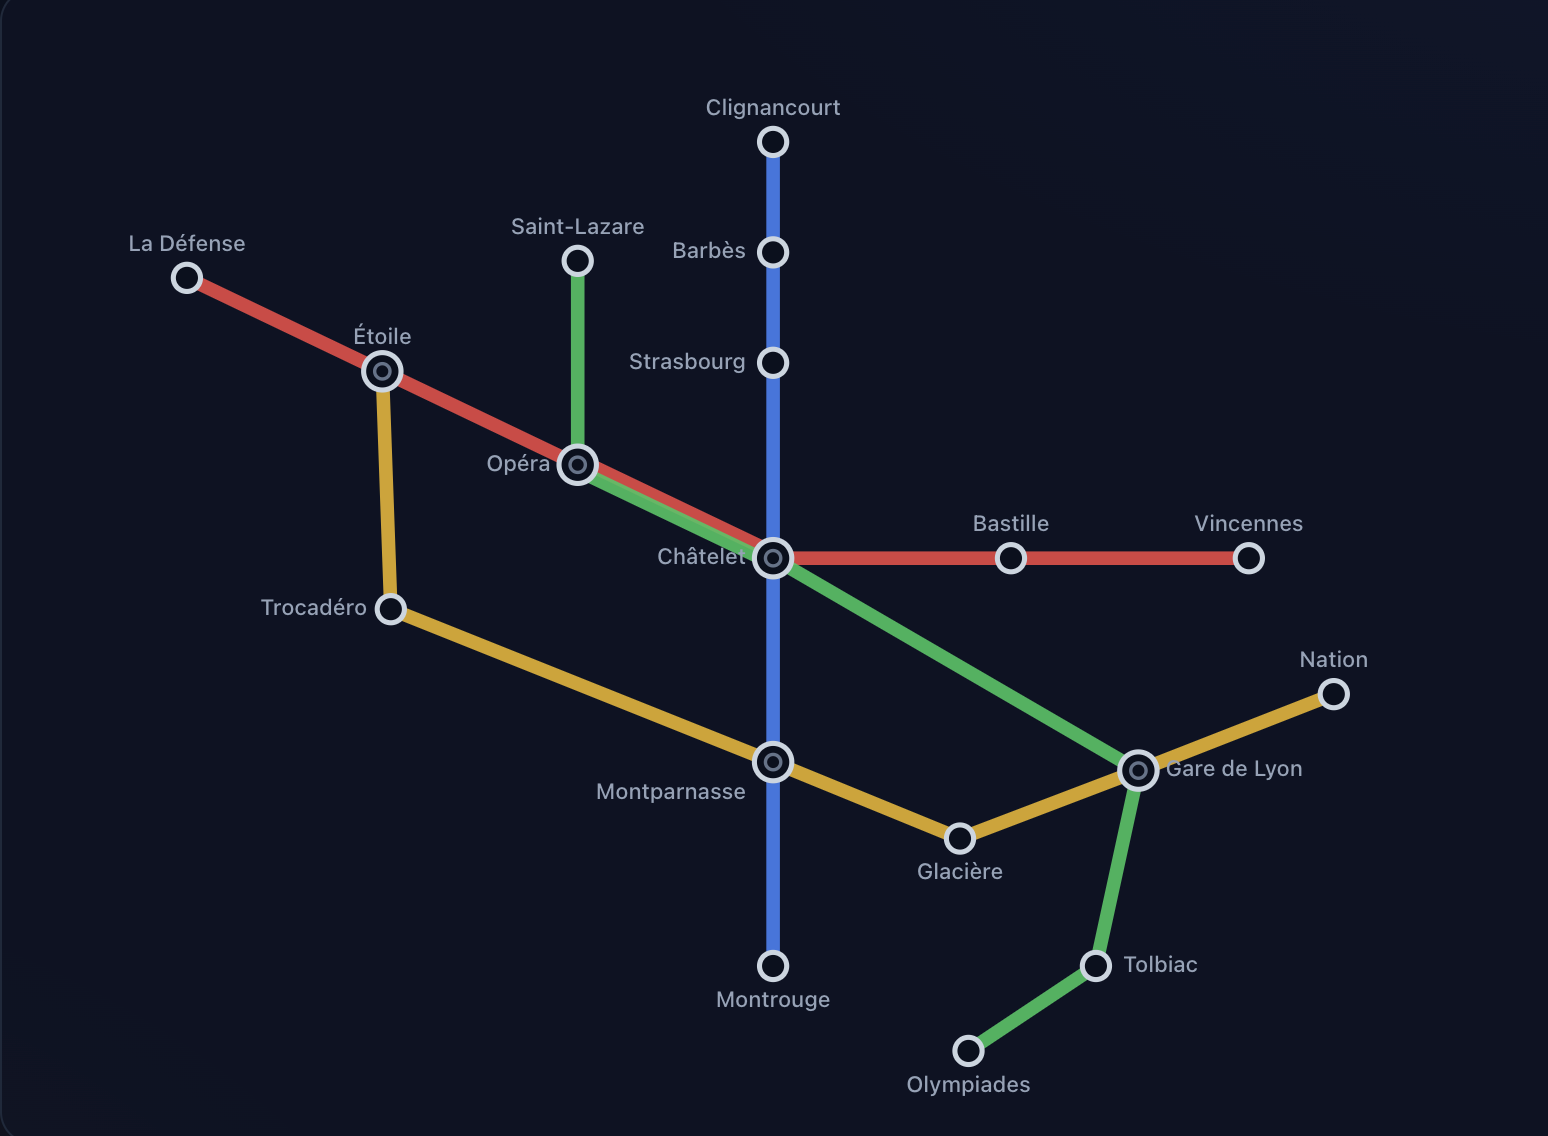
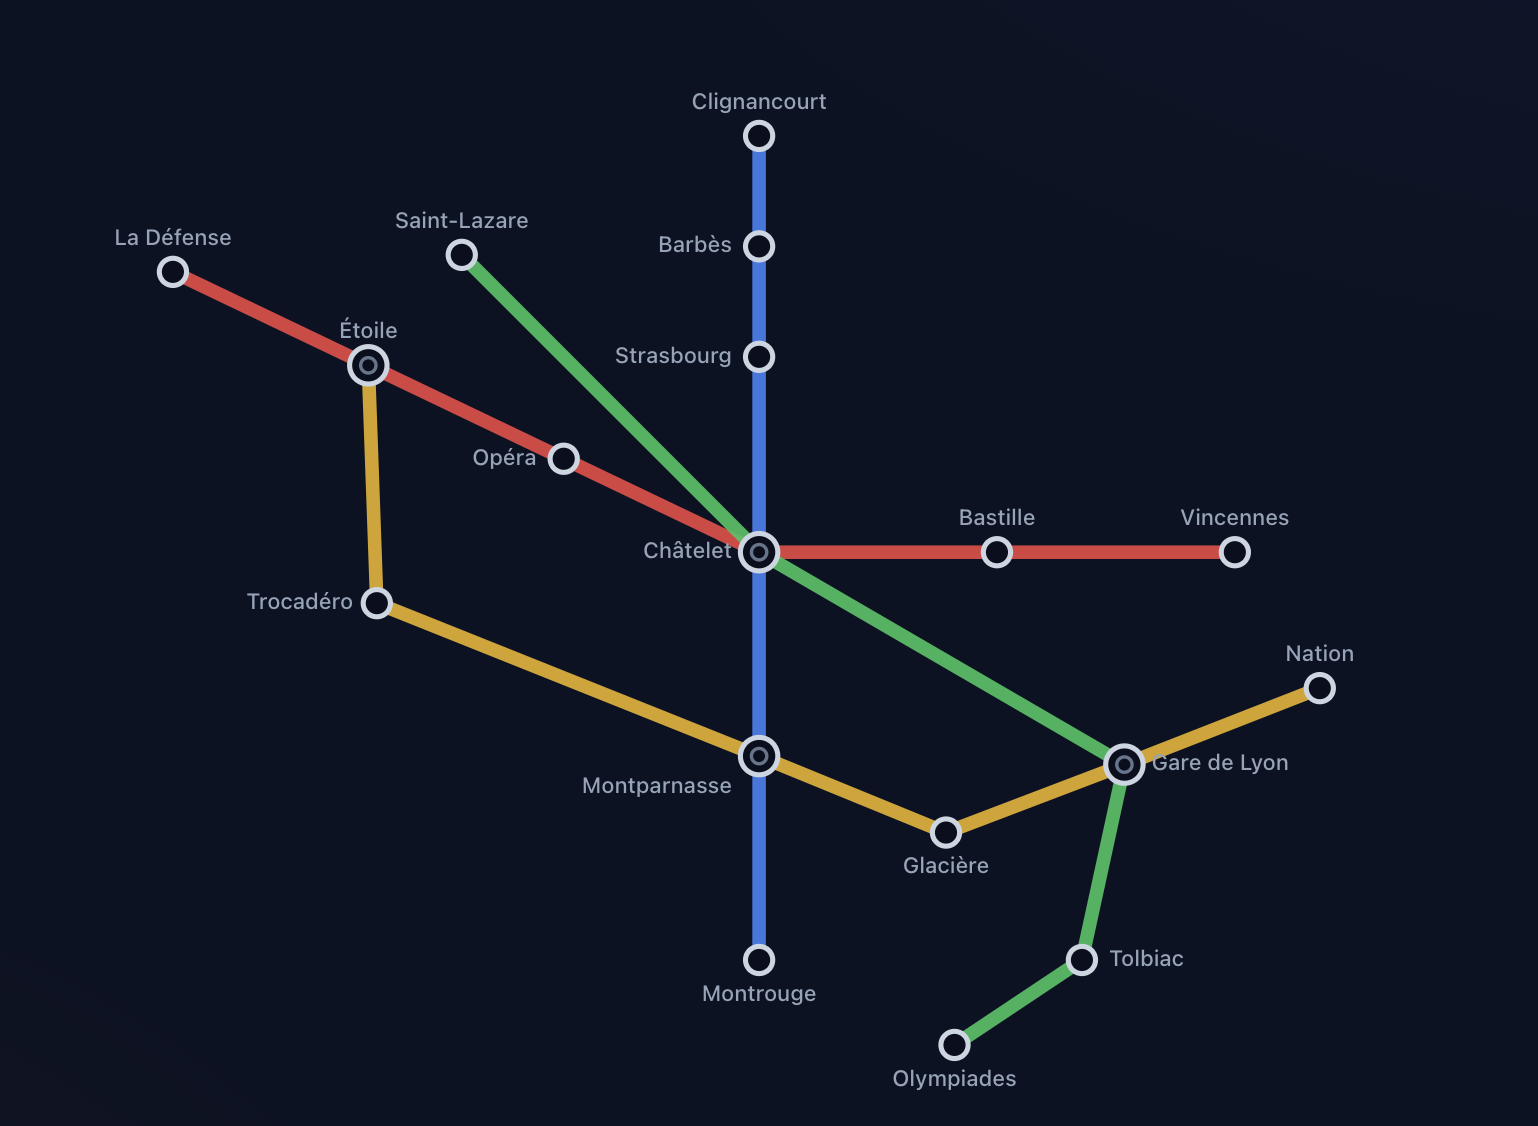
Removed a duplicate segment in different lines.

diff --git a/client/src/pages/PlayPage.jsx b/client/src/pages/PlayPage.jsx
@@ -11,6 +11,11 @@ function PlayPage() {
     const [phase, setPhase] = useState('setup')
     const [gameData, setGameData] = useState(null)
     const [result, setResult] = useState(null)   // { valid, score } from Execution
+    const [gameInfo, setGameInfo] = useState(null)
+    const [gameInfoError, setGameInfoError] = useState(false)
+    const [segments, setSegments] = useState([])
+    const [gameResult, setGameResult] = useState(null)
+    const [executionError, setExecutionError] = useState(false)
 
     // Wait for the session check before deciding, so we don't bounce a logged-in user
     if (loading)
@@ -20,14 +25,85 @@ function PlayPage() {
     if (!user)
         return <Navigate to="/login" />
 
+    const startGame = () => {
+        setGameInfo(null)
+        setSegments([])
+        setGameInfoError(false)
+        setPhase('planning')
+
+        Promise.all([
+            fetch('http://localhost:3001/api/game/new', { credentials: 'include' }).then(res => {
+                if (!res.ok) throw new Error('Could not start game')
+                return res.json()
+            }),
+            fetch('http://localhost:3001/api/segments', { credentials: 'include' }).then(res => {
+                if (!res.ok) throw new Error('Could not load segments')
+                return res.json()
+            })
+        ])
+            .then(([gameInfoData, segmentsData]) => {
+                setGameInfo(gameInfoData)
+                setSegments(segmentsData.sort(() => Math.random() - 0.5))
+            })
+            .catch(() => setGameInfoError(true))
+    }
+
+    const submitRouteData = (data) => {
+        setGameData(data)
+        setGameResult(null)
+        setExecutionError(false)
+        setPhase('execution')
+
+        fetch('http://localhost:3001/api/games', {
+            method: 'POST',
+            headers: { 'Content-Type': 'application/json' },
+            credentials: 'include',
+            body: JSON.stringify({
+                startId: data.gameInfo.start,
+                endId: data.gameInfo.end,
+                segments: data.segments.map(s => s.id)
+            })
+        })
+            .then(res => {
+                if (!res.ok) throw new Error('Could not submit game')
+                return res.json()
+            })
+            .then(resData => {
+                if (!resData.valid) {
+                    setResult({ valid: false, score: 0 })
+                    setPhase('result')
+                } else {
+                    setGameResult(resData)
+                }
+            })
+            .catch(() => setExecutionError(true))
+    }
+
     if (phase === 'setup')
-        return <Setup onNext={() => setPhase('planning')} />
+        return <Setup onNext={startGame} />
 
     if (phase === 'planning')
-        return <Planning onNext={(data) => { setGameData(data); setPhase('execution') }} />
+        return (
+            <Planning
+                gameInfo={gameInfo}
+                gameInfoError={gameInfoError}
+                segments={segments}
+                onNext={submitRouteData}
+            />
+        )
 
     if (phase === 'execution')
-        return <Execution gameData={gameData} onFinish={(r) => { setResult(r); setPhase('result') }} />
+        return (
+            <Execution
+                gameData={gameData}
+                gameResult={gameResult}
+                executionError={executionError}
+                onFinish={(r) => {
+                    setResult(r)
+                    setPhase('result')
+                }}
+            />
+        )
 
     // Play Again resets the state back to the start (works because it stays on /play).
     if (phase === 'result')

diff --git a/client/src/components/Execution.jsx b/client/src/components/Execution.jsx
@@ -1,34 +1,16 @@
 import { useState, useEffect } from 'react';
 import { Container, Button, ListGroup, Badge, ProgressBar, Alert } from 'react-bootstrap';
 
-function Execution({ gameData, onFinish }) {
-    const [result, setResult] = useState(null)
+function Execution({ gameData, gameResult, executionError, onFinish }) {
     const [revealed, setRevealed] = useState(0)   // how many segments have been revealed so far
     const [error, setError] = useState(false)
+    const result = gameResult
 
     useEffect(() => {
-        if (!gameData) return
-        fetch('http://localhost:3001/api/games', {
-            method: 'POST',
-            headers: { 'Content-Type': 'application/json' },
-            credentials: 'include',
-            body: JSON.stringify({
-                startId: gameData.gameInfo.start,
-                endId: gameData.gameInfo.end,
-                segments: gameData.segments.map(s => s.id)
-            })
-        })
-            .then(res => res.json())
-            .then(data => {
-                // Invalid routes have nothing to step through: go straight to the result screen.
-                if (!data.valid) {
-                    onFinish({ valid: false, score: 0 })
-                } else {
-                    setResult(data)
-                }
-            })
-            .catch(() => setError(true))
-    }, [])
+        if (executionError) {
+            setError(true)
+        }
+    }, [executionError])
 
     if (error) return (
         <Container className="mt-4" style={{ maxWidth: '700px' }}>

diff --git a/client/src/components/Planning.jsx b/client/src/components/Planning.jsx
@@ -1,9 +1,7 @@
 import { useState, useEffect } from 'react'
 import { Container, Button, ListGroup, Badge, Alert, Form, Row, Col, ProgressBar, Card } from 'react-bootstrap'
 
-function Planning({ onNext }) {
-    const [segments, setSegments] = useState([])
-    const [gameInfo, setGameInfo] = useState(null)
+function Planning({ onNext, gameInfo, gameInfoError, segments }) {
     const [selectedSegments, setSelectedSegments] = useState([])
     const [timeLeft, setTimeLeft] = useState(90)
     const [search, setSearch] = useState('')
@@ -15,19 +13,10 @@ function Planning({ onNext }) {
     const submitRoute = () => onNext({ gameInfo, segments: selectedSegments })
 
     useEffect(() => {
-        fetch('http://localhost:3001/api/game/new', { credentials: 'include' })
-            .then(res => res.json())
-            .then(data => setGameInfo(data))
-            .catch(() => setError(true))
-    }, [])
-
-    useEffect(() => {
-        fetch('http://localhost:3001/api/segments', { credentials: 'include' })
-            .then(res => res.json())
-            // shuffle once so the segments are not shown in a predictable order
-            .then(data => setSegments(data.sort(() => Math.random() - 0.5)))
-            .catch(() => setError(true))
-    }, [])
+        if (gameInfoError) {
+            setError(true)
+        }
+    }, [gameInfoError])
 
     // Count down one second at a time until the timer reaches 0
     useEffect(() => {

diff --git a/server/index.js b/server/index.js
@@ -161,8 +161,8 @@ app.get('/api/ranking', isLoggedIn, async (req, res) => {
 app.post('/api/games', isLoggedIn, async (req, res) => {
   const { startId, endId, segments } = req.body;
 
-  // Basic validation for invalid requests
-  if (!startId || !endId || !Array.isArray(segments) || segments.length === 0) {
+  // Basic validation for invalid requests (must exist and be arrays)
+  if (!startId || !endId || !Array.isArray(segments)) {
     return res.status(400).json({ error: 'Invalid request' });
   }
 
@@ -176,6 +176,11 @@ app.post('/api/games', isLoggedIn, async (req, res) => {
       await gamesDAO.createGame(req.user.id, startId, endId, 0, false);
       return res.json({ score: 0, valid: false });
     };
+
+    // If route is empty, it is incomplete and invalid.
+    if (segments.length === 0) {
+      return markInvalid();
+    }
 
     // every requested segment id must resolve to a real segment
     if (routeSegments.some(s => !s)) {

diff --git a/client/src/App.jsx b/client/src/App.jsx
@@ -7,7 +7,6 @@ import RankingPage from './pages/RankingPage'
 
 function App() {
   return (
-      // navbar padding in the top for all pages
       <>
           <NavigationBar />
           <div style={{paddingTop: '50px'}}>
